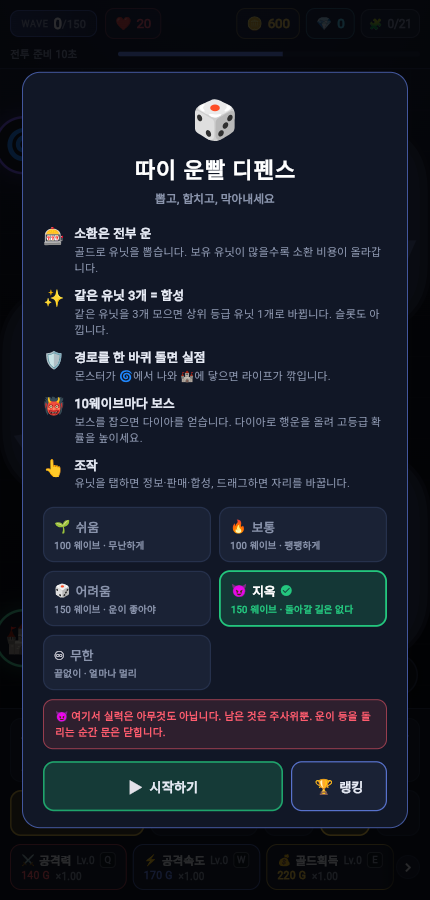
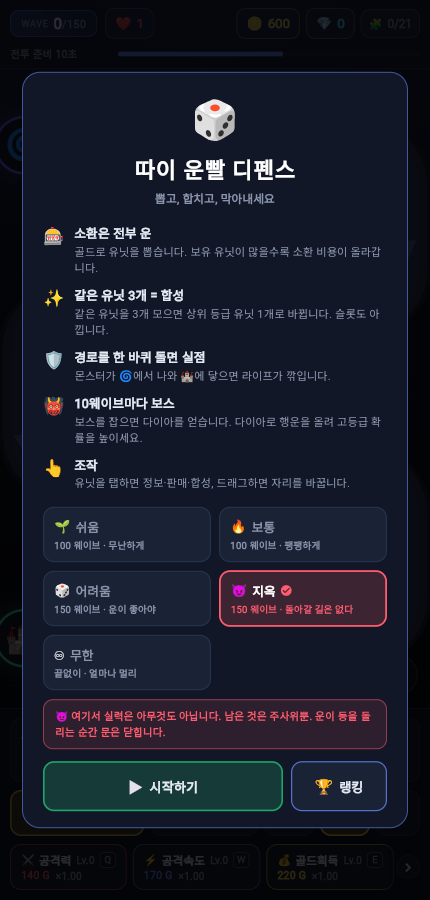
feat(mode): 지옥을 어려움과 같은 빨강으로, 문구는 분위기만 남긴다
모드 카드 색은 «조심하라» 는 뜻으로 쓰는데, 도박이 붙는 두 모드 중 어려움만
빨강이고 지옥은 초록이었다. 둘을 묶어 같은 색을 쓰게 한다.

안내 문구는 규칙 설명을 빼고 분위기만 남긴다. 어려움은 그대로 둔다 — 도박을
**처음 만나는 곳**이라 거기서는 수치를 적어 줘야 한다. 지옥은 그 규칙을 이미
아는 사람이 고르는 모드다.

Changed region(s): [[0.4837, 0.6222, 0.907, 0.7156]]

diff --git a/lib/ui/intro_overlay.dart b/lib/ui/intro_overlay.dart
@@ -192,9 +192,10 @@ class _ModeCard extends StatelessWidget {
 
   @override
   Widget build(BuildContext context) {
+    // 도박이 붙는 모드는 «조심하라» 는 뜻으로 빨강을 쓴다.
     final color = switch (mode) {
       GameMode.endless => GameColors.accent,
-      GameMode.hard => GameColors.life,
+      GameMode.hard || GameMode.hell => GameColors.life,
       _ => GameColors.green,
     };
     return GestureDetector(
@@ -281,8 +282,8 @@ class _GambleNote extends StatelessWidget {
       ),
       child: Text(
         mode == GameMode.hell
-            ? '${mode.icon} 여기서 실력은 아무것도 아닙니다. '
-                  '남은 것은 주사위뿐. 운이 등을 돌리는 순간 문은 닫힙니다.'
+            ? '${mode.icon} 주사위는 던져졌습니다. 자비를 구할 곳도, '
+                  '되돌릴 수도 없습니다. 운이 다하는 곳이 끝입니다.'
             : '${mode.icon} ${mode.label}에서는 신화 3개를 초월로 올리는 합성이 '
                   '$chance% 도박입니다. 실패하면 ${Balance.mergeFailLoss}기가 '
                   '사라지고, 성공하면 공격력이 $bonus배인 초월이 나옵니다.',

diff --git a/test/lucky_defense_test.dart b/test/lucky_defense_test.dart
@@ -376,7 +376,7 @@ void main() {
 
       expect(game.state.mode, GameMode.hell);
       // 지옥은 규칙을 적지 않고 분위기만 남긴다.
-      expect(find.textContaining('남은 것은 주사위뿐'), findsOneWidget);
+      expect(find.textContaining('주사위는 던져졌습니다'), findsOneWidget);
       expect(
         find.textContaining('도박입니다'),
         findsNothing,
@@ -397,7 +397,7 @@ void main() {
       // 도박을 처음 만나는 모드라, 여기서는 수치를 적어 준다.
       expect(find.textContaining('어려움에서는'), findsOneWidget);
       expect(find.textContaining('도박입니다'), findsOneWidget);
-      expect(find.textContaining('남은 것은 주사위뿐'), findsNothing);
+      expect(find.textContaining('주사위는 던져졌습니다'), findsNothing);
     });
   });
 

diff --git a/lib/game/data/game_mode.dart b/lib/game/data/game_mode.dart
@@ -6,7 +6,7 @@ enum GameMode {
   easy('쉬움', '🌱', '무난하게'),
   normal('보통', '🔥', '팽팽하게'),
   hard('어려움', '🎲', '운이 좋아야'),
-  hell('지옥', '😈', '돌아갈 길은 없다'),
+  hell('지옥', '😈', '시험해 보십시오'),
   endless('무한', '♾', '얼마나 멀리');
 
   const GameMode(this.label, this.icon, this.tagline);
